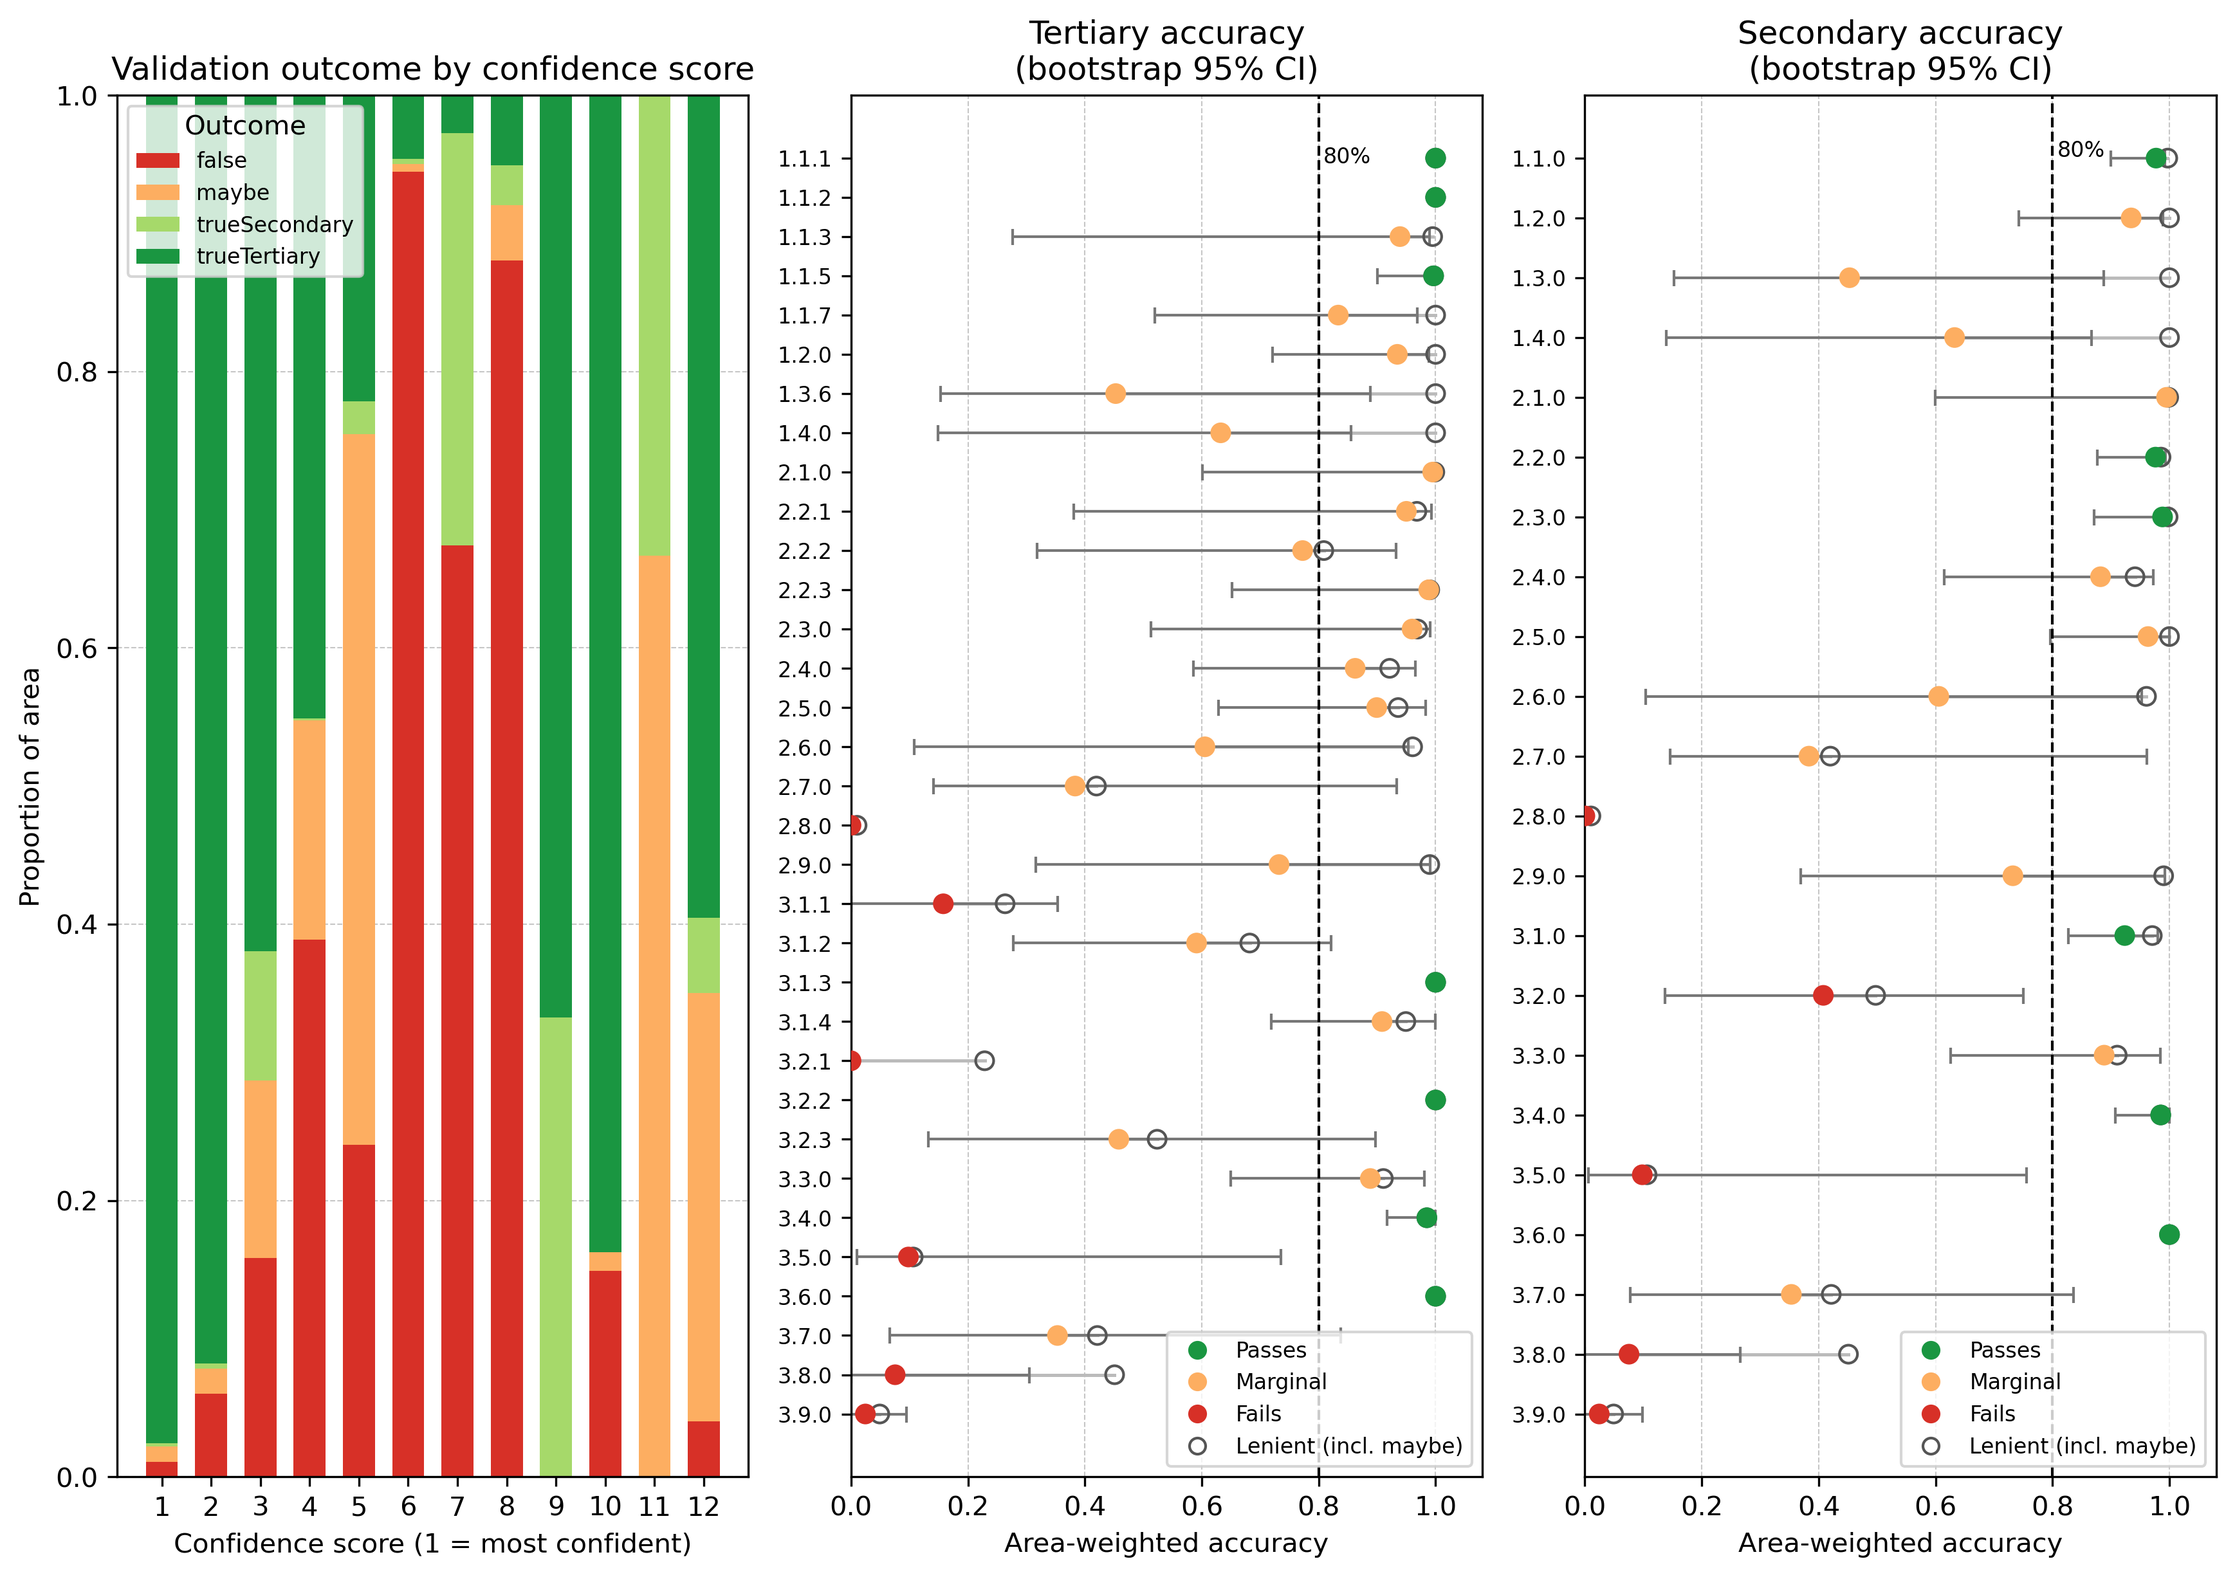
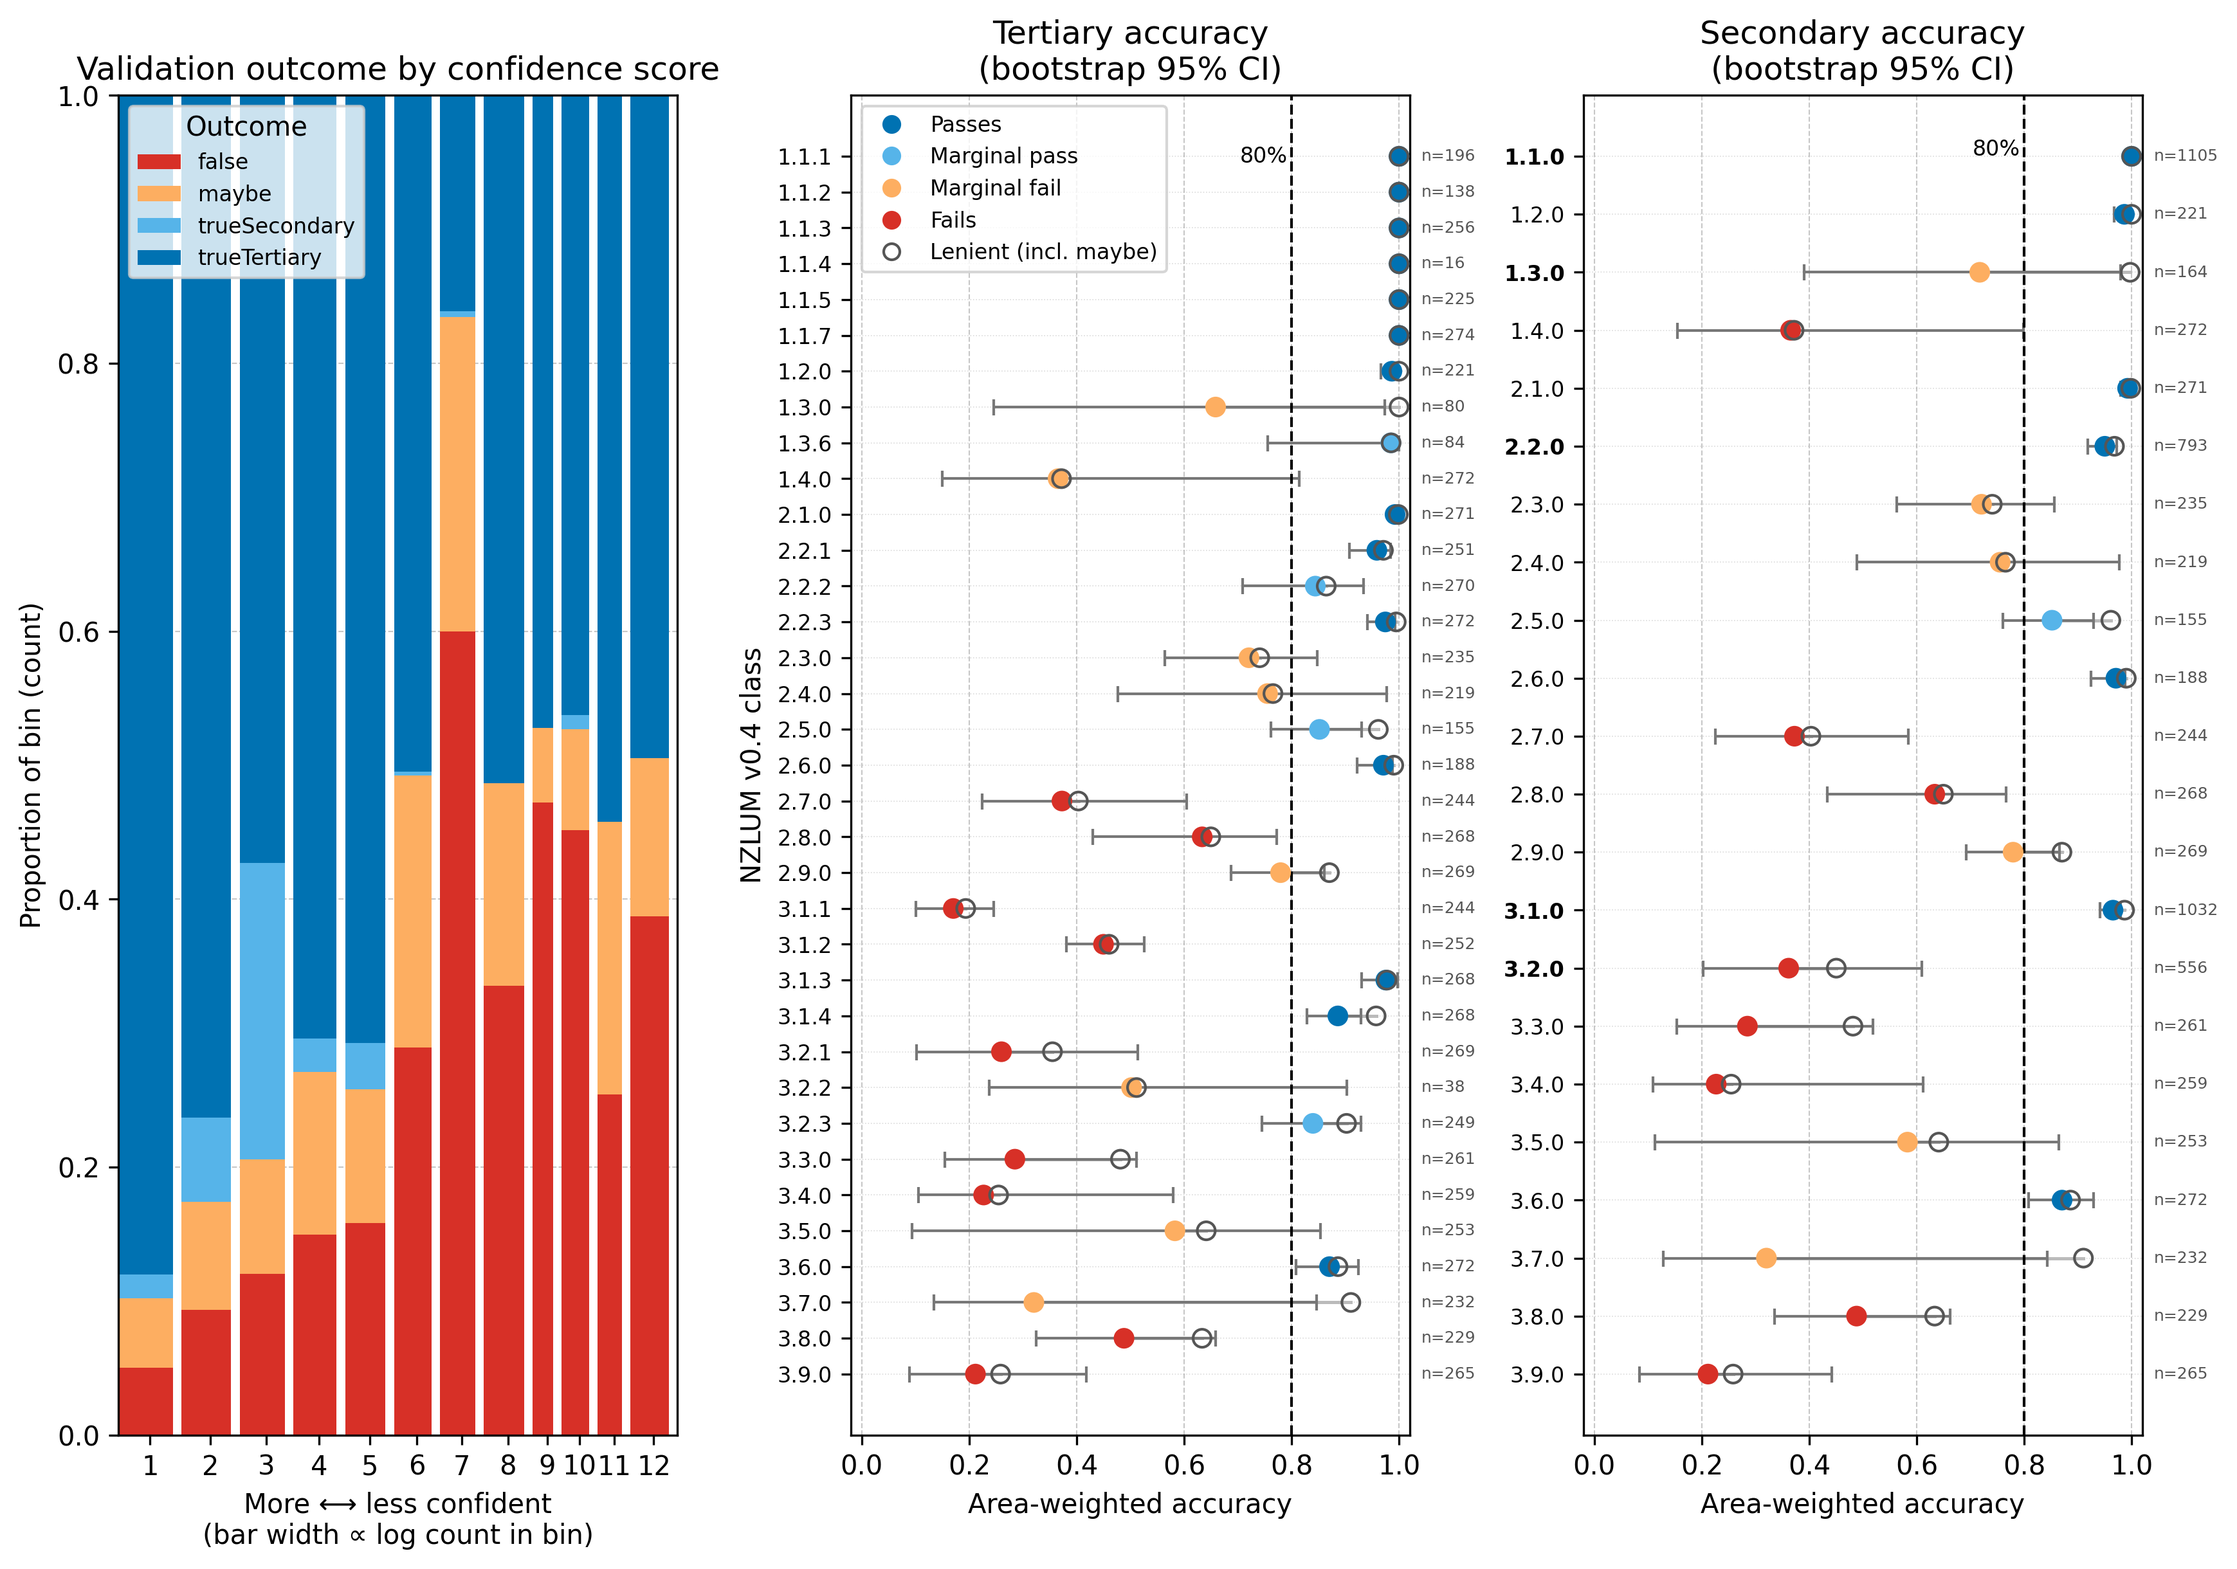
visualisation work

diff --git a/visualisations/validation_accuracy.py b/visualisations/validation_accuracy.py
@@ -79,12 +79,11 @@ def plot_calibration(ax, gdf, truth_col, confidence_col, area_col, true_vals, se
 
     conf_vals = sorted(gdf[confidence_col].dropna().unique())
 
-    total_per_conf = np.array([
-        gdf.loc[gdf[confidence_col] == cv, area_col].sum()
+    counts_per_conf = np.array([
+        (gdf[confidence_col] == cv).sum()
         for cv in conf_vals
     ])
-    grand_total = total_per_conf.sum()
-    widths = np.log1p(total_per_conf) / np.log1p(total_per_conf).sum()
+    widths = np.log1p(counts_per_conf) / np.log1p(counts_per_conf).sum()
     lefts = np.concatenate([[0], np.cumsum(widths[:-1])])
     centers = lefts + widths / 2
 
@@ -93,8 +92,8 @@ def plot_calibration(ax, gdf, truth_col, confidence_col, area_col, true_vals, se
 
     for cat in cat_order:
         proportions = np.array([
-            gdf.loc[(gdf[confidence_col] == cv) & (gdf[truth_col] == cat), area_col].sum() /
-            max(1e-9, total_per_conf[i])
+            (gdf.loc[gdf[confidence_col] == cv, truth_col] == cat).sum() /
+            max(1, counts_per_conf[i])
             for i, cv in enumerate(conf_vals)
         ])
         ax.bar(lefts, proportions, width=widths - gap, bottom=bottom, align='edge',
@@ -104,8 +103,8 @@ def plot_calibration(ax, gdf, truth_col, confidence_col, area_col, true_vals, se
 
     ax.set_xticks(centers)
     ax.set_xticklabels([str(int(cv)) for cv in conf_vals])
-    ax.set_xlabel("Confidence score (1 = most confident)\n(bar width ∝ log area in bin)")
-    ax.set_ylabel("Proportion of bin area")
+    ax.set_xlabel("More ⟷ less confident\n(bar width ∝ log count in bin)")
+    ax.set_ylabel("Proportion of bin (count)")
     ax.set_xlim(0, 1)
     ax.set_ylim(0, 1)
     ax.set_title("Validation outcome by confidence score")
@@ -114,12 +113,14 @@ def plot_calibration(ax, gdf, truth_col, confidence_col, area_col, true_vals, se
     ax.set_axisbelow(True)
 
 
-def _draw_accuracy_panel(ax, acc, threshold, title):
+def _draw_accuracy_panel(ax, acc, threshold, title, show_legend=True, bold_labels=None,
+                         xlabel="Area-weighted accuracy"):
     y = np.arange(len(acc))
 
     dot_colors = [
         '#0072B2' if row['ci_lo'] > threshold else
         '#d73027' if row['ci_hi'] < threshold else
+        '#56B4E9' if row['p_strict'] >= threshold else
         '#fdae61'
         for _, row in acc.iterrows()
     ]
@@ -132,31 +133,41 @@ def _draw_accuracy_panel(ax, acc, threshold, title):
     ax.errorbar(acc['p_strict'], y, xerr=xerr, fmt='none',
                 color='#777777', linewidth=1, capsize=3, zorder=2)
 
-    ax.scatter(acc['p_strict'], y, c=dot_colors, zorder=4, s=45)
+    ax.scatter(acc['p_strict'], y, c=dot_colors, zorder=3, s=45)
     ax.scatter(acc['p_lenient'], y, facecolors='none', edgecolors='#555555',
-               zorder=3, s=45, linewidths=1)
+               zorder=4, s=45, linewidths=1)
 
     ax.axvline(threshold, color='black', linestyle='--', linewidth=1)
     ax.text(threshold - 0.008, len(acc) - 0.7, f'{threshold:.0%}',
             fontsize=8, va='top', ha='right')
 
     ax.set_yticks(y)
-    ax.set_yticklabels(acc.index.tolist(), fontsize=8)
-    ax.set_xlabel("Area-weighted accuracy")
+    tick_labels = ax.set_yticklabels(acc.index.tolist(), fontsize=8)
+    if bold_labels:
+        for lbl in tick_labels:
+            if lbl.get_text() in bold_labels:
+                lbl.set_fontweight('bold')
+    trans = ax.get_yaxis_transform()
+    for i, (_, row) in enumerate(acc.iterrows()):
+        ax.text(1.02, y[i], f'n={int(row["n"])}', fontsize=6, ha='left', va='center',
+                transform=trans, clip_on=False, color='#555555')
+    ax.set_xlabel(xlabel)
     ax.set_title(title)
     ax.xaxis.grid(True, linestyle='--', linewidth=0.5, alpha=0.7)
     ax.yaxis.grid(True, linestyle=':', linewidth=0.4, alpha=0.3, color='#888888')
     ax.set_axisbelow(True)
     ax.set_xlim(-0.02, 1.02)
 
-    legend_items = [
-        mlines.Line2D([], [], color='#0072B2', marker='o', linestyle='None', label='Passes'),
-        mlines.Line2D([], [], color='#fdae61', marker='o', linestyle='None', label='Marginal'),
-        mlines.Line2D([], [], color='#d73027', marker='o', linestyle='None', label='Fails'),
-        mlines.Line2D([], [], marker='o', color='w', markerfacecolor='w',
-                      markeredgecolor='#555555', linestyle='None', label='Lenient (incl. maybe)'),
-    ]
-    ax.legend(handles=legend_items, fontsize=8, loc='lower right')
+    if show_legend:
+        legend_items = [
+            mlines.Line2D([], [], color='#0072B2', marker='o', linestyle='None', label='Passes'),
+            mlines.Line2D([], [], color='#56B4E9', marker='o', linestyle='None', label='Marginal pass'),
+            mlines.Line2D([], [], color='#fdae61', marker='o', linestyle='None', label='Marginal fail'),
+            mlines.Line2D([], [], color='#d73027', marker='o', linestyle='None', label='Fails'),
+            mlines.Line2D([], [], marker='o', color='w', markerfacecolor='w',
+                          markeredgecolor='#555555', linestyle='None', label='Lenient (incl. maybe)'),
+        ]
+        ax.legend(handles=legend_items, fontsize=8, loc='upper left')
 
 
 def _groupby_accuracy(gdf, group_col, truth_col, area_col, true_vals, maybe_vals, n_boot, ci):
@@ -166,22 +177,25 @@ def _groupby_accuracy(gdf, group_col, truth_col, area_col, true_vals, maybe_vals
 
 
 def plot_accuracy_uncombined(ax, gdf, lu_col, truth_col, area_col, true_vals, maybe_vals,
-                             threshold, n_boot, ci):
+                             threshold, n_boot, ci, xlabel="Area-weighted accuracy"):
     acc = _groupby_accuracy(gdf, lu_col, truth_col, area_col, true_vals, maybe_vals, n_boot, ci)
     acc = acc.loc[sorted(acc.index, key=_lu_sort_key, reverse=True)]
     _draw_accuracy_panel(ax, acc, threshold,
-                         f"Tertiary accuracy\n(bootstrap {ci:.0%} CI)")
+                         f"Tertiary accuracy\n(bootstrap {ci:.0%} CI)", xlabel=xlabel)
+    ax.set_ylabel("NZLUM v0.4 class")
 
 
 def plot_accuracy_combined(ax, gdf, lu_col, truth_col, area_col, true_vals, secondary_vals,
-                           maybe_vals, threshold, n_boot, ci):
+                           maybe_vals, threshold, n_boot, ci, xlabel="Area-weighted accuracy"):
     gdf = gdf.copy()
     gdf['_secondary_lu'] = gdf[lu_col].map(to_secondary_code)
     strict_vals = list(set(true_vals) | set(secondary_vals))
     acc = _groupby_accuracy(gdf, '_secondary_lu', truth_col, area_col, strict_vals, maybe_vals, n_boot, ci)
     acc = acc.loc[sorted(acc.index, key=_lu_sort_key, reverse=True)]
+    has_tertiary = set(gdf.loc[gdf[lu_col] != gdf['_secondary_lu'], '_secondary_lu'])
     _draw_accuracy_panel(ax, acc, threshold,
-                         f"Secondary accuracy\n(bootstrap {ci:.0%} CI)")
+                         f"Secondary accuracy\n(bootstrap {ci:.0%} CI)", show_legend=False,
+                         bold_labels=has_tertiary, xlabel=xlabel)
 
 
 def main(gpkg_paths, truth_col, confidence_col, lu_col, area_col, true_values, secondary_values,

diff --git a/visualisations/confidence_by_class.py b/visualisations/confidence_by_class.py
@@ -1,0 +1,158 @@
+#!/usr/bin/env python
+
+import argparse
+import geopandas as gpd
+import pandas as pd
+import numpy as np
+import matplotlib.pyplot as plt
+import matplotlib.patches as mpatches
+
+import validation_accuracy as va
+
+
+GROUP_COLORS = {
+    "Correct": "#0072B2",
+    "Maybe": "#fdae61",
+    "False": "#d73027",
+}
+GROUP_ORDER = ["Correct", "Maybe", "False"]
+GROUP_OFFSETS = {"Correct": 0.26, "Maybe": 0.0, "False": -0.26}
+BOX_H = 0.22
+
+
+def classify(truth, true_set, maybe_set):
+    if truth in true_set:
+        return "Correct"
+    if truth in maybe_set:
+        return "Maybe"
+    return "False"
+
+
+def main(gpkg_paths, truth_col, confidence_col, lu_col, true_values, secondary_values,
+         maybe_values, level, min_n, output, a4):
+    gdfs = [gpd.read_file(p) for p in gpkg_paths]
+    ref_crs = gdfs[0].crs
+    gdf = gpd.GeoDataFrame(pd.concat(gdfs, ignore_index=True), crs=ref_crs) if len(gdfs) > 1 else gdfs[0]
+
+    for col in [lu_col, confidence_col, truth_col]:
+        if col not in gdf.columns:
+            raise ValueError(f"Column '{col}' not found in the dataset")
+
+    null_cls = sorted(gdf[lu_col].unique(), key=va._lu_sort_key)[0]
+    gdf = gdf[gdf[lu_col] != null_cls]
+
+    gdf = gdf.copy()
+    if level == "secondary":
+        gdf["_class"] = gdf[lu_col].map(va.to_secondary_code)
+        true_set = set(true_values) | set(secondary_values)
+    else:
+        gdf["_class"] = gdf[lu_col]
+        true_set = set(true_values)
+    maybe_set = set(maybe_values)
+
+    gdf["_group"] = gdf[truth_col].apply(lambda t: classify(t, true_set, maybe_set))
+
+    class_counts = gdf["_class"].value_counts()
+    keep_classes = class_counts[class_counts >= min_n].index
+    gdf = gdf[gdf["_class"].isin(keep_classes)]
+
+    classes = sorted(gdf["_class"].unique(), key=va._lu_sort_key, reverse=True)
+    n_classes = len(classes)
+
+    if a4:
+        figsize = (8.27, 11.69)
+        dpi = 300
+    else:
+        figsize = (10, max(6, n_classes * 0.62 + 1))
+        dpi = 150
+
+    fig, ax = plt.subplots(figsize=figsize, dpi=dpi)
+
+    for i in range(1, n_classes):
+        ax.axhline(i - 0.5, color='#bbbbbb', linewidth=0.6, linestyle='-', alpha=0.5, zorder=0)
+
+    for i, cls in enumerate(classes):
+        sub = gdf[gdf["_class"] == cls]
+        for grp in GROUP_ORDER:
+            vals = sub.loc[sub["_group"] == grp, confidence_col].dropna().values
+            if len(vals) == 0:
+                continue
+            pos = i + GROUP_OFFSETS[grp]
+            bp = ax.boxplot(
+                [vals], positions=[pos], vert=False, widths=BOX_H,
+                patch_artist=True, showfliers=False, whis=(5, 95),
+                manage_ticks=False,
+            )
+            for box in bp['boxes']:
+                box.set_facecolor(GROUP_COLORS[grp])
+                box.set_alpha(0.75)
+                box.set_edgecolor(GROUP_COLORS[grp])
+            for element in ('whiskers', 'caps'):
+                for line in bp[element]:
+                    line.set_color(GROUP_COLORS[grp])
+            for median in bp['medians']:
+                median.set_color('white')
+                median.set_linewidth(1.5)
+            ax.scatter(vals.mean(), pos, marker='D', s=10, facecolor='white',
+                       edgecolor=GROUP_COLORS[grp], linewidths=0.8, zorder=5)
+        ax.text(12.7, i, f"n={len(sub)}", fontsize=6, va='center', color='#555555')
+
+    ax.set_yticks(range(n_classes))
+    ax.set_yticklabels(classes, fontsize=8)
+    ax.set_xlim(0.3, 13.3)
+    ax.set_xticks(range(1, 13))
+    ax.set_xlabel("More ⟷ less confident")
+    ax.set_ylabel(f"NZLUM v0.4 {level} class")
+    ax.set_title(f"Confidence score distribution by outcome, per {level} class")
+    ax.xaxis.grid(True, linestyle='--', linewidth=0.5, alpha=0.7)
+    ax.set_axisbelow(True)
+
+    legend_handles = [mpatches.Patch(color=GROUP_COLORS[g], label=g, alpha=0.75) for g in GROUP_ORDER]
+    legend_handles.append(
+        plt.Line2D([], [], marker='D', color='w', markerfacecolor='white',
+                   markeredgecolor='#555555', linestyle='None', markersize=5, label='Mean')
+    )
+    ax.legend(handles=legend_handles, loc='upper right', fontsize=8, title="Outcome",
+              bbox_to_anchor=(1.16, 1.0), bbox_transform=ax.transAxes)
+
+    plt.tight_layout()
+
+    if output:
+        plt.savefig(output, dpi=dpi, bbox_inches='tight')
+        print(f"Saved to {output}")
+    else:
+        plt.show()
+
+
+if __name__ == "__main__":
+    parser = argparse.ArgumentParser(
+        description="Per-class confidence score distribution, split by validation outcome (Correct/Maybe/False)."
+    )
+    parser.add_argument("gpkg", nargs="+", help="Path(s) to input GeoPackage file(s). Multiple files are concatenated.")
+    parser.add_argument("--truth-col", default="validation")
+    parser.add_argument("--confidence-col", default="confidence")
+    parser.add_argument("--lu-col", default="lu_code")
+    parser.add_argument("--true-values", nargs="+", default=["trueTertiary"], metavar="VALUE")
+    parser.add_argument("--secondary-values", nargs="+", default=["trueSecondary"], metavar="VALUE")
+    parser.add_argument("--maybe-values", nargs="+", default=["maybe"], metavar="VALUE")
+    parser.add_argument("--level", choices=["tertiary", "secondary"], default="secondary",
+                        help="Class granularity (default: secondary)")
+    parser.add_argument("--min-n", type=int, default=10,
+                        help="Minimum samples for a class to be shown (default: 10)")
+    parser.add_argument("--output", default=None, help="Save to file (PNG, PDF, SVG...). Omit to show interactively.")
+    parser.add_argument("--a4", action="store_true", help="Constrain output to A4 portrait (8.27x11.69in, 300dpi).")
+    args = parser.parse_args()
+
+    main(
+        args.gpkg,
+        truth_col=args.truth_col,
+        confidence_col=args.confidence_col,
+        lu_col=args.lu_col,
+        true_values=args.true_values,
+        secondary_values=args.secondary_values,
+        maybe_values=args.maybe_values,
+        level=args.level,
+        min_n=args.min_n,
+        output=args.output,
+        a4=args.a4,
+    )
